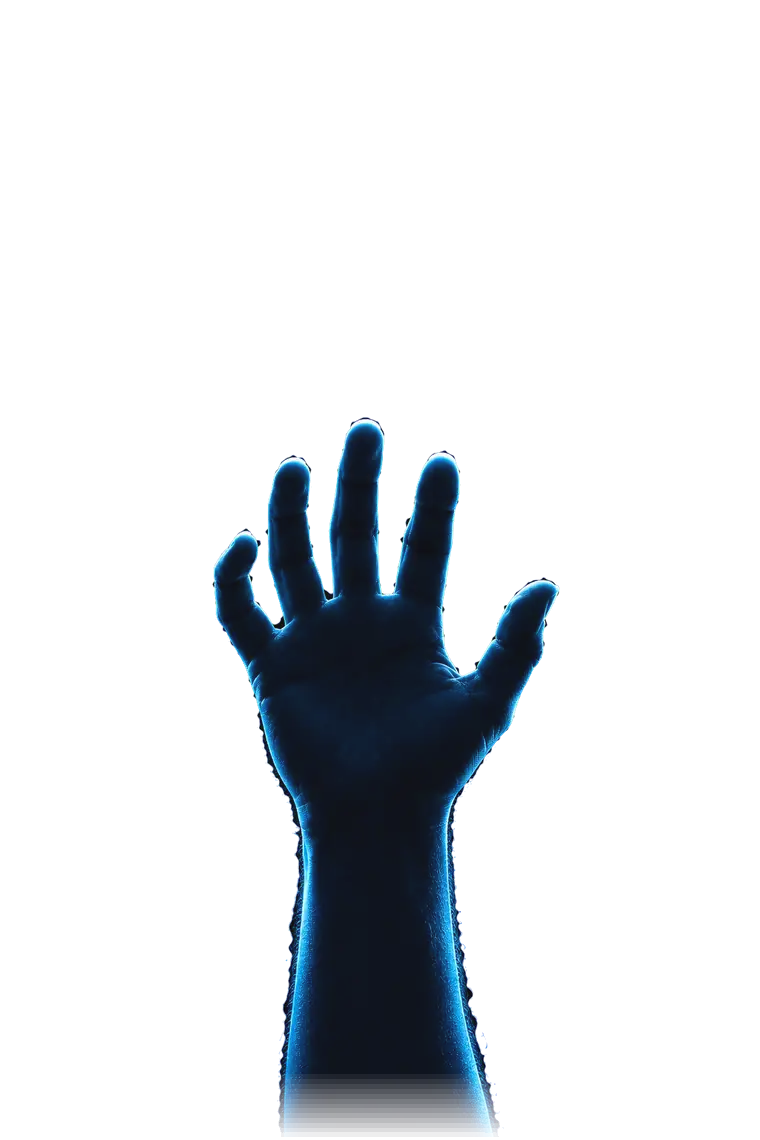
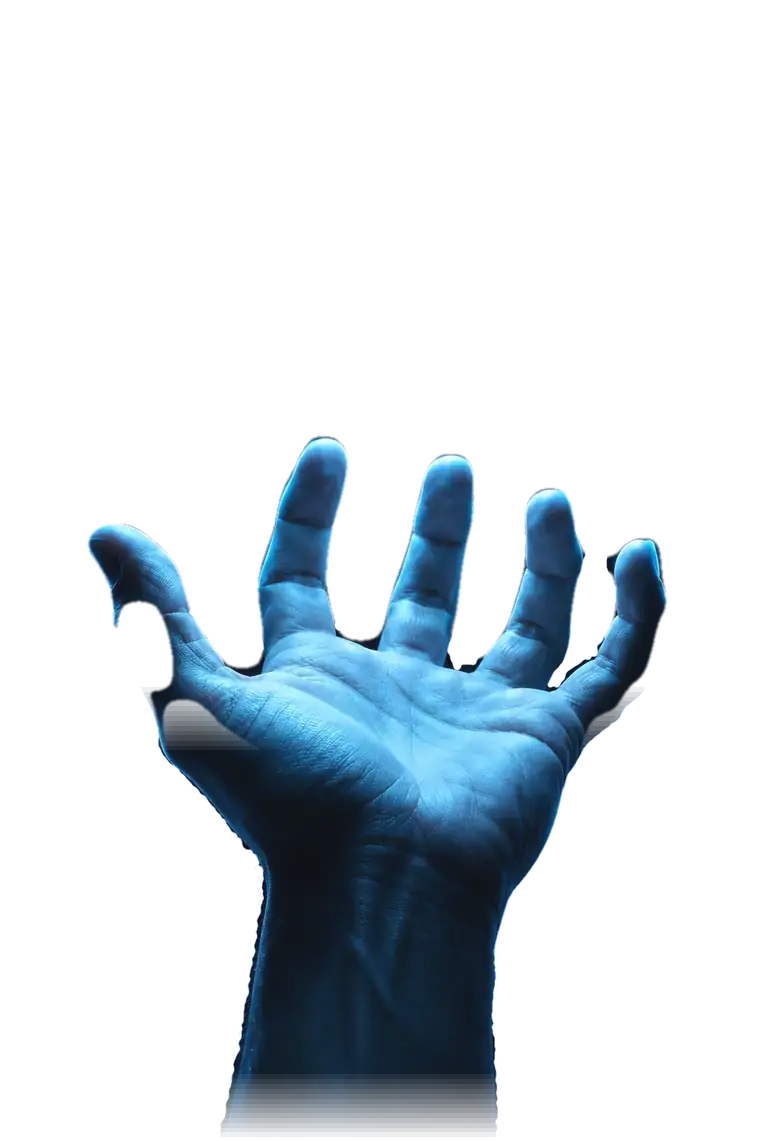
Sign-in hero: measured match to the user's mock at 1440x810
- Floor horizon pinned to 82vh; hand (new cupped, palm-up render, de-fringed) rises out of it
- Planet centred at the page middle: dark navy body lit from above, full corona rim, light rays, ambient blue
- Deep-blue aurora for sign-in (no white fringe), quieter cloud edges
- Wider sign-in layout, 60px title, card tabs (Sign in / Create account), tuned spacing

Changed region(s): [[0.1211, 0.3684, 0.8776, 1.0]]

diff --git a/public/css/app.css b/public/css/app.css
@@ -56,13 +56,15 @@ body.booting .boot-loader .boot-mk{width:132px;height:auto;animation:mkPulse 2.4
 body.gate nav .links,body.gate nav .nav-r,body.gate .helper-btn,body.gate .tabbar{display:none}
 
 /* auth page */
-/* desktop: title │ the offering │ form — the hand has its own column so nothing overlaps at any height */
-.auth{position:relative;display:grid;grid-template-columns:minmax(0,1fr) 220px minmax(0,370px);gap:32px;align-items:center;min-height:700px;padding:24px 0}
-/* signed out: a taller scene drops the floor horizon to ~730px so the hand rises out of it */
-body.gate .scene{height:1040px}
-.auth-copy{grid-area:1/1;position:relative;z-index:1;text-shadow:0 2px 24px rgba(2,12,19,.9)}
-.auth-card{grid-area:1/3;position:relative;z-index:1}
-.auth-copy h1{font-weight:300;font-size:clamp(36px,3.6vw,52px);line-height:1.04;letter-spacing:-.02em;margin:14px 0 22px}
+/* signed-out hero, measured against the user's mock at 1440x810:
+   the floor horizon sits at 82vh, the hand rises out of it at the page centre, title left, form right */
+body.gate .wrap{max-width:1330px}
+body.gate .scene{height:117.1vh} /* scene scale = height/800, so its horizon (y 560/800) lands at 82vh */
+#p-auth.page{padding-top:0}
+.auth{position:relative;display:grid;grid-template-columns:minmax(0,500px) minmax(0,1fr) 346px;gap:32px;align-items:end;height:calc(82vh - 72px);min-height:500px;padding:0}
+.auth-copy{grid-area:1/1;position:relative;z-index:1;margin-bottom:34px;text-shadow:0 2px 24px rgba(2,12,19,.9)}
+.auth-card{grid-area:1/3;position:relative;z-index:1;margin:0 14px 36px -14px}
+.auth-copy h1{font-weight:300;font-size:clamp(38px,4.17vw,60px);line-height:.93;letter-spacing:-.02em;margin:14px 0 22px}
 .auth-points{list-style:none;margin-top:28px;display:grid;gap:12px;font-size:15px;color:#c3dbe6}
 .auth-points li{display:flex;align-items:center;gap:12px}
 .auth-points li>span{display:grid;place-items:center;width:30px;height:30px;border-radius:9px;color:#98d5ee;background:rgba(79,179,218,.12);border:1px solid rgba(79,179,218,.25)}
@@ -89,8 +91,8 @@ body.gate .scene{height:1040px}
   -webkit-mask-image:linear-gradient(180deg,transparent 2%,#000 30%,#000 84%,transparent 99%);mask-image:linear-gradient(180deg,transparent 2%,#000 30%,#000 84%,transparent 99%);
   animation:ofHand 11s cubic-bezier(.45,0,.55,1) infinite}
 /* pool of light the hand rises from */
-.of-pool{left:-55%;right:-55%;bottom:4%;height:18%;z-index:1;
-  background:radial-gradient(50% 30% at 50% 50%,rgba(225,242,250,.55),rgba(79,179,218,.32) 30%,rgba(23,134,180,.12) 60%,transparent 75%);
+.of-pool{left:-80%;right:-80%;bottom:4%;height:18%;z-index:1;
+  background:radial-gradient(50% 32% at 50% 50%,rgba(225,242,250,.8),rgba(79,179,218,.45) 22%,rgba(23,134,180,.16) 55%,transparent 75%);
   will-change:opacity;animation:ofPulse 7s cubic-bezier(.45,0,.55,1) infinite}
 .of-pool::after{content:"";position:absolute;left:18%;right:18%;top:50%;height:1.5px;background:linear-gradient(90deg,transparent,rgba(225,242,250,.9),transparent)}
 /* soft column of light between the orb and the palm */
@@ -99,7 +101,7 @@ body.gate .scene{height:1040px}
   will-change:opacity;animation:ofPulse 7s cubic-bezier(.45,0,.55,1) infinite -3.5s}
 /* the shaft of light rising above the orb */
 .of-shaft{left:50%;top:calc(var(--oy) - 46%);width:22%;height:46%;z-index:3;translate:-50% 0;
-  background:linear-gradient(0deg,rgba(152,213,238,.5),rgba(79,179,218,.12) 45%,transparent);border-radius:50%;
+  background:linear-gradient(0deg,rgba(225,242,250,.8),rgba(79,179,218,.25) 40%,transparent);border-radius:50%;
   -webkit-mask-image:radial-gradient(50% 100% at 50% 100%,#000 30%,transparent);mask-image:radial-gradient(50% 100% at 50% 100%,#000 30%,transparent);
   will-change:opacity;animation:ofPulse 6s cubic-bezier(.45,0,.55,1) infinite -1s}
 .of-orb{left:50%;top:var(--oy);width:calc(var(--w)*var(--orb));aspect-ratio:1;z-index:4;padding:0;border-radius:50%;will-change:transform;
@@ -143,36 +145,57 @@ button.of-orb:focus-visible{outline:1px solid rgba(152,213,238,.7);outline-offse
 @keyframes ofGlint{0%,100%{opacity:.35;transform:scale(.8)}50%{opacity:1;transform:scale(1.3)}}
 
 /* sign-in hero, after the reference: title │ the offering │ form */
-.badge-pill{display:inline-flex;align-items:center;gap:10px;padding:7px 14px 7px 12px;border-radius:30px;font-size:11px;letter-spacing:.24em;text-transform:uppercase;color:#cfe6f1;
+.badge-pill{display:inline-flex;align-items:center;gap:9px;padding:6px 13px 6px 11px;border-radius:30px;font-size:10.5px;letter-spacing:.2em;text-transform:uppercase;color:#cfe6f1;
   background:rgba(4,32,46,.55);border:1px solid rgba(79,179,218,.35);box-shadow:inset 0 0 12px rgba(79,179,218,.08)}
 .badge-pill i{width:6px;height:6px;border-radius:50%;background:#4fb3da;box-shadow:0 0 10px #4fb3da;animation:ofGlint 2.8s ease-in-out infinite}
-.auth-copy .lede{font-size:19px;color:#a9c6d6;margin-top:-4px}
-.auth-cta{display:flex;gap:16px;margin-top:30px}
-.auth-cta .btn{height:52px;padding:0 28px;font-size:15px;background:linear-gradient(180deg,#4fb3da,#1786b4);border-color:transparent;box-shadow:0 10px 34px -8px rgba(79,179,218,.7),inset 0 1px 0 rgba(255,255,255,.35)}
+.auth-copy .lede{font-size:18px;color:#aebdcc;margin-top:-2px}
+.auth-cta{display:flex;gap:16px;margin-top:38px}
+.auth-cta .btn{height:47px;padding:0 26px;font-size:14.5px;background:linear-gradient(180deg,#4fb3da,#1786b4);border-color:transparent;box-shadow:0 10px 34px -8px rgba(79,179,218,.7),inset 0 1px 0 rgba(255,255,255,.35)}
 .auth-cta .btn:hover{transform:translateY(-1px);box-shadow:0 14px 40px -8px rgba(79,179,218,.85),inset 0 1px 0 rgba(255,255,255,.35)}
-.auth-stats{display:flex;margin-top:40px}
+.auth-stats{display:flex;margin-top:57px}
 .auth-stats>div{white-space:nowrap;display:grid;grid-template-columns:auto auto;column-gap:10px;align-items:center;padding:0 26px;border-left:1px solid rgba(79,179,218,.2)}
 .auth-stats>div:first-child{padding-left:0;border-left:0}
 .auth-stats span{color:#98d5ee;grid-row:span 2}
-.auth-stats b{font-weight:400;font-size:20px;line-height:1.1}
+.auth-stats b{font-weight:400;font-size:19px;line-height:1.1}
 .auth-stats small{font-size:12px;color:var(--muted);grid-column:2}
-.auth-card{padding:34px 32px 28px;background:linear-gradient(180deg,rgba(4,30,44,.78),rgba(2,16,25,.86));border-color:rgba(79,179,218,.3);box-shadow:0 30px 80px -30px rgba(0,0,0,.8),inset 0 1px 0 rgba(152,213,238,.12)}
+.auth-card{padding:30px 28px 24px;background:linear-gradient(180deg,rgba(4,30,44,.78),rgba(2,16,25,.86));border-color:rgba(79,179,218,.3);box-shadow:0 30px 80px -30px rgba(0,0,0,.8),inset 0 1px 0 rgba(152,213,238,.12)}
 .ifld{position:relative;display:block}
 .ifld>.ic{position:absolute;left:16px;top:50%;translate:0 -50%;color:#98d5ee;opacity:.85;pointer-events:none}
-.auth-card .ifld input{height:52px;padding:0 46px 0 48px;border-radius:14px;font-size:14.5px}
+.auth-card .ifld input{height:42px;padding:0 44px 0 46px;border-radius:12px;font-size:13.5px}
+.auth-card h2{font-size:26px}
+.auth-card .auth-go{height:40px;border-radius:20px}
+.auth-tabs{display:grid;grid-template-columns:1fr 1fr;margin:22px -28px 4px;border-bottom:1px solid rgba(79,179,218,.16)}
+.auth-tabs button{padding:0 0 12px;font-size:13.5px;color:var(--muted);position:relative;transition:color .3s}
+.auth-tabs button.on{color:var(--text)}
+.auth-tabs button.on::after{content:"";position:absolute;left:22%;right:22%;bottom:-1px;height:2px;border-radius:2px;background:#4fb3da;box-shadow:0 0 10px #4fb3da}
 .ifld .eye{position:absolute;right:12px;top:50%;translate:0 -50%;width:30px;height:30px;display:grid;place-items:center;color:var(--muted);border-radius:8px}
 .ifld .eye:hover,.ifld .eye.on{color:#e1f2fa}
 .sr{position:absolute;width:1px;height:1px;overflow:hidden;clip:rect(0 0 0 0);white-space:nowrap}
-.of-auth{grid-area:1/2;align-self:end;justify-self:center;--w:380px;--oy:27%;--orb:.56;z-index:0;margin-bottom:-2px}
-.of-auth .of-hand{-webkit-mask-image:linear-gradient(180deg,transparent 2%,#000 30%,#000 80%,transparent 88%);mask-image:linear-gradient(180deg,transparent 2%,#000 30%,#000 80%,transparent 88%)}
+.of-auth{position:absolute;left:50%;bottom:calc(var(--w) * -.195);margin-left:calc(var(--w) / -2);--w:380px;--oy:25.6%;--orb:.58;z-index:0}
+.of-auth .of-hand{inset:27.5% auto auto 19%;width:62%;-webkit-mask-image:linear-gradient(180deg,#000 88%,transparent 96%);mask-image:linear-gradient(180deg,#000 88%,transparent 96%)}
+.of-auth .of-ring{width:178%;height:46%;border-width:1.4px;border-color:rgba(152,213,238,.7);transform:translate(-50%,-50%) rotate(-22deg)}
+/* the luminous floor the hand rises from (sits exactly on the scene horizon) */
+.of-auth::after{content:"";position:absolute;left:50%;bottom:calc(13% - 70px);width:1500px;height:140px;margin-left:-750px;z-index:1;pointer-events:none;
+  background:radial-gradient(28% 14% at 50% 50%,rgba(225,242,250,.85),rgba(79,179,218,.4) 40%,transparent 100%),radial-gradient(50% 50% at 50% 50%,rgba(23,134,180,.32),rgba(15,94,131,.12) 50%,transparent 75%)}
+.of-auth .of-shaft{top:calc(var(--oy) - 46%);height:34%;width:30%;z-index:5;-webkit-mask-image:none;mask-image:none;border-radius:0;
+  background:radial-gradient(50% 100% at 50% 100%,rgba(225,242,250,.75),rgba(79,179,218,.35) 35%,rgba(23,134,180,.1) 65%,transparent 80%)}
+.of-auth .of-hand{filter:brightness(.56) contrast(1.2) saturate(1.15)}
+.of-auth .of-orb i{display:none}
+/* the planet floods the centre with blue light, like the mock */
+.of-auth::before{content:"";position:absolute;left:50%;top:var(--oy);width:1000px;height:820px;margin:-380px 0 0 -500px;z-index:0;pointer-events:none;
+  background:radial-gradient(closest-side,rgba(23,134,180,.34),rgba(15,94,131,.16) 45%,transparent)}
+/* thin rays rising from the planet */
+.of-auth .of-shaft{background:repeating-linear-gradient(90deg,transparent 0 7px,rgba(152,213,238,.35) 7px 8px,transparent 8px 13px),linear-gradient(0deg,rgba(152,213,238,.85),rgba(79,179,218,.3) 45%,transparent);
+  -webkit-mask-image:radial-gradient(45% 100% at 50% 100%,#000 25%,transparent 100%);mask-image:radial-gradient(45% 100% at 50% 100%,#000 25%,transparent 100%)}
+.of-auth .of-orb::before{inset:-8%;background:radial-gradient(60% 60% at 50% 40%,rgba(79,179,218,calc(.75 + var(--charge)*.25)),rgba(23,134,180,.35) 45%,transparent 72%)}
 /* Home: the hand sits right of the search; below 1280px the stacked words return */
 .of-home{display:none;position:absolute;right:-6px;top:-40px;--w:330px;--oy:27%;--orb:.48}
 .of-home .of-tag{font-size:12.5px;text-shadow:0 1px 12px #020c13,0 0 4px #020c13}
 .of-home .of-hand{-webkit-mask-image:linear-gradient(180deg,transparent 2%,#000 30%,#000 80%,transparent 88%);mask-image:linear-gradient(180deg,transparent 2%,#000 30%,#000 80%,transparent 88%)}
 .of-home .of-ring{width:210%;border-color:rgba(152,213,238,.4)}
 @media (min-width:1280px){#p-home .hero .side{display:none}.of-home{display:block}}
-@media (max-width:1100px){.auth{grid-template-columns:minmax(0,1fr) minmax(0,400px)}.auth-card{grid-area:1/2}.of-auth{display:none}}
-@media (max-width:900px){.auth{grid-template-columns:1fr}.auth-copy,.auth-card,.of-auth{grid-area:auto}.of-auth{display:block;margin:-10px auto -110px;--w:300px;order:-1}.auth-stats>div{padding:0 14px}}
+@media (max-width:1100px){.auth{grid-template-columns:minmax(0,1fr) minmax(0,380px);height:auto;align-items:center;padding:24px 0 60px}.auth-card{grid-area:1/2;margin:0}.auth-copy{margin:0}.of-auth{display:none}}
+@media (max-width:900px){body.gate .scene{height:1040px}.auth{grid-template-columns:1fr}.auth-copy,.auth-card,.of-auth{grid-area:auto}.of-auth{display:block;position:relative;left:auto;bottom:auto;margin:-10px auto -110px;--w:300px;order:-1}.auth-stats>div{padding:0 14px}}
 @media (prefers-reduced-motion:reduce){.offering *{animation:none!important}}
 
 

diff --git a/public/js/globe.js b/public/js/globe.js
@@ -21,26 +21,26 @@ function drawGlobe(cv,t){
     g.restore()};
   const halo=g.createRadialGradient(c,c,R*.9,c,c,R*(calm?1.38:1.6)); // calm: stay inside the canvas so no square edgehalo.addColorStop(0,'rgba(79,179,218,.5)');halo.addColorStop(1,'rgba(79,179,218,0)');g.fillStyle=halo;g.fillRect(0,0,S,S);
   if(!calm)ring(true);
-  const body=g.createRadialGradient(c-R*.38,c-R*.42,R*.05,c,c,R);
-  if(calm){body.addColorStop(0,'#2f86ad');body.addColorStop(.3,'#0a3c55');body.addColorStop(.7,'#03141f');body.addColorStop(1,'#01080d')}
+  const body=calm?g.createRadialGradient(c,c-R*.95,R*.05,c,c-R*.2,R*1.25):g.createRadialGradient(c-R*.38,c-R*.42,R*.05,c,c,R);
+  if(calm){body.addColorStop(0,'#1786b4');body.addColorStop(.18,'#0f5e83');body.addColorStop(.42,'#072a3d');body.addColorStop(.75,'#03141f');body.addColorStop(1,'#01080d')}
   else{body.addColorStop(0,'#e1f2fa');body.addColorStop(.3,'#4fb3da');body.addColorStop(.68,'#0f5e83');body.addColorStop(1,'#04202e')}
   g.fillStyle=body;g.beginPath();g.arc(c,c,R,0,7);g.fill();
   g.save();g.beginPath();g.arc(c,c,R,0,7);g.clip();
   // graticule: meridians and parallels, front half only, fading toward the limb
   g.lineWidth=Math.max(.6,S*.008);
   const line=f=>{let prev=null;for(let k=0;k<=36;k++){const p=proj(...f(k/36));if(prev&&p[2]>0&&prev[2]>0){g.strokeStyle=`rgba(200,236,250,${(.12+.3*p[2])*(calm?.14:1)})`;g.beginPath();g.moveTo(prev[0],prev[1]);g.lineTo(p[0],p[1]);g.stroke()}prev=p}};
-  for(let m=0;m<6;m++){const lon=m*Math.PI/6;line(u=>{const lat=(u-.5)*Math.PI;return[Math.cos(lat)*Math.cos(lon),Math.sin(lat),Math.cos(lat)*Math.sin(lon)]})}
-  for(const lat of[-1,-.5,0,.5,1].map(v=>v*Math.PI/3.2))line(u=>{const lon=u*Math.PI*2;return[Math.cos(lat)*Math.cos(lon),Math.sin(lat),Math.cos(lat)*Math.sin(lon)]});
-  GLOBE.pts.forEach((p,i)=>{const q=proj(...p);if(q[2]<=0)return;const L=GLOBE.isLand[i];
-    g.fillStyle=L?`rgba(225,242,250,${(.35+.65*q[2])*(calm?.16:1)})`:`rgba(152,213,238,${(.08+.18*q[2])*(calm?.5:1)})`;g.beginPath();g.arc(q[0],q[1],(L?.9:.55)*dpr*(.55+.45*q[2])*(S/(44*dpr)),0,7);g.fill()});
+  if(!calm)for(let m=0;m<6;m++){const lon=m*Math.PI/6;line(u=>{const lat=(u-.5)*Math.PI;return[Math.cos(lat)*Math.cos(lon),Math.sin(lat),Math.cos(lat)*Math.sin(lon)]})}
+  if(!calm)for(const lat of[-1,-.5,0,.5,1].map(v=>v*Math.PI/3.2))line(u=>{const lon=u*Math.PI*2;return[Math.cos(lat)*Math.cos(lon),Math.sin(lat),Math.cos(lat)*Math.sin(lon)]});
+  GLOBE.pts.forEach((p,i)=>{const q=proj(...p);if(q[2]<=0)return;const L=GLOBE.isLand[i];if(calm&&!L)return;
+    g.fillStyle=L?`rgba(225,242,250,${(.35+.65*q[2])*(calm?.07:1)})`:`rgba(152,213,238,${(.08+.18*q[2])*(calm?.5:1)})`;g.beginPath();g.arc(q[0],q[1],(L?.9:.55)*dpr*(.55+.45*q[2])*(S/(44*dpr)),0,7);g.fill()});
   // night side and a soft specular highlight sell the curvature
-  const shade=g.createRadialGradient(c-R*.5,c-R*.55,R*.2,c,c,R*1.05);shade.addColorStop(0,'rgba(0,0,0,0)');shade.addColorStop(.7,'rgba(2,14,21,.15)');shade.addColorStop(1,'rgba(2,14,21,.7)');
+  const shade=calm?g.createRadialGradient(c,c-R*.6,R*.3,c,c,R*1.05):g.createRadialGradient(c-R*.5,c-R*.55,R*.2,c,c,R*1.05);shade.addColorStop(0,'rgba(0,0,0,0)');shade.addColorStop(.7,'rgba(2,14,21,.15)');shade.addColorStop(1,'rgba(2,14,21,.7)');
   g.fillStyle=shade;g.fillRect(0,0,S,S);
-  const spec=g.createRadialGradient(c-R*.42,c-R*.48,0,c-R*.42,c-R*.48,R*.5);spec.addColorStop(0,'rgba(255,255,255,.55)');spec.addColorStop(1,'rgba(255,255,255,0)');
+  const spec=calm?g.createRadialGradient(c,c-R*.9,0,c,c-R*.9,R*.7):g.createRadialGradient(c-R*.42,c-R*.48,0,c-R*.42,c-R*.48,R*.5);spec.addColorStop(0,'rgba(255,255,255,.55)');spec.addColorStop(1,'rgba(255,255,255,0)');
   g.fillStyle=spec;g.fillRect(0,0,S,S);g.restore();
   const rim=g.createLinearGradient(c-R,c+R,c+R,c-R);rim.addColorStop(0,'rgba(152,213,238,.85)');rim.addColorStop(.5,'rgba(79,179,218,.3)');rim.addColorStop(1,'rgba(225,242,250,.8)');
-  if(calm){g.save();g.shadowColor='#4fb3da';g.shadowBlur=S*.09;g.strokeStyle='rgba(152,213,238,.95)';g.lineWidth=Math.max(1,S*.012);g.beginPath();g.arc(c,c,R,Math.PI*.9,Math.PI*2.1);g.stroke();
-    g.globalAlpha=.35;g.beginPath();g.arc(c,c,R,Math.PI*2.1,Math.PI*2.9);g.stroke();g.restore();return}
+  if(calm){const rg=g.createLinearGradient(0,c-R,0,c+R);rg.addColorStop(0,'rgba(225,242,250,.95)');rg.addColorStop(.35,'rgba(79,179,218,.75)');rg.addColorStop(1,'rgba(23,134,180,.3)');
+    g.save();g.shadowColor='#4fb3da';g.shadowBlur=S*.16;g.strokeStyle=rg;g.lineWidth=Math.max(1,S*.012);g.beginPath();g.arc(c,c,R,0,7);g.stroke();g.stroke();g.restore();return}
   g.strokeStyle=rim;g.lineWidth=Math.max(1,S*.022);g.beginPath();g.arc(c,c,R,0,7);g.stroke();
   ring(false);
 }

diff --git a/public/js/app.js b/public/js/app.js
@@ -398,15 +398,16 @@ function strip(stops){const c=document.createElement('canvas');c.width=1;c.heigh
 const GREEN=strip([[0,'rgba(15,94,131,0)'],[.3,'rgba(23,134,180,.24)'],[.62,'rgba(79,179,218,.4)'],[.9,'rgba(152,213,238,.85)'],[.95,'rgba(225,242,250,.5)'],[1,'rgba(225,242,250,0)']]); // Sky palette
 const CYAN=strip([[0,'rgba(10,60,85,0)'],[.35,'rgba(15,94,131,.22)'],[.7,'rgba(79,179,218,.35)'],[.92,'rgba(225,242,250,.85)'],[1,'rgba(225,242,250,0)']]);
 const VIOLET=strip([[0,'rgba(10,60,85,0)'],[.4,'rgba(15,94,131,.3)'],[.85,'rgba(23,134,180,.6)'],[1,'rgba(23,134,180,0)']]);
+const DEEP=strip([[0,'rgba(10,60,85,0)'],[.3,'rgba(15,94,131,.28)'],[.65,'rgba(23,134,180,.5)'],[.9,'rgba(79,179,218,.78)'],[.96,'rgba(79,179,218,.45)'],[1,'rgba(79,179,218,0)']]); // sign-in: deep blue, no white fringe
 const SCN={
  home:{seed:11,trees:.6,figure:false,void:true,floorX:1290,r:[
   {u0:.5,u1:1.12,y0:0.6,y1:0.5,amp:.07,f:2.2,h:0.84,a:1,ph:0,sp:1,s:GREEN}, // brightest curtain sits behind the hand, not the headline
   {u0:.3,u1:1.1,y0:0.5,y1:0.41,amp:.05,f:1.6,h:0.61,a:.6,ph:2,sp:.7,s:VIOLET},
   {u0:.02,u1:.5,y0:0.5,y1:0.46,amp:.05,f:1.4,h:0.5,a:.32,ph:4,sp:.8,s:CYAN}]},
- auth:{seed:17,void:true,floorX:800,r:[
-  {u0:.1,u1:.75,y0:0.65,y1:0.46,amp:.07,f:2.2,h:0.84,a:1,ph:0,sp:1,s:GREEN},
-  {u0:.55,u1:1.1,y0:0.54,y1:0.41,amp:.05,f:1.6,h:0.61,a:.7,ph:2,sp:.7,s:VIOLET},
-  {u0:-.05,u1:.45,y0:0.68,y1:0.62,amp:.05,f:1.4,h:0.54,a:.55,ph:4,sp:.8,s:CYAN}]},
+ auth:{seed:17,void:true,floorX:800,rimLight:.25,r:[
+  {u0:-.06,u1:.44,y0:0.5,y1:0.36,amp:.06,f:2.2,h:0.78,a:1,ph:0,sp:1,s:DEEP},
+  {u0:.58,u1:1.08,y0:0.34,y1:0.5,amp:.06,f:2,h:0.78,a:1,ph:3,sp:.9,s:DEEP},
+  {u0:.28,u1:.74,y0:0.34,y1:0.34,amp:.04,f:1.4,h:0.62,a:.5,ph:4,sp:.8,s:VIOLET}]},
  builder:{seed:23,trees:.3,figure:false,planet:true,r:[
   {u0:.4,u1:1.1,y0:0.52,y1:0.68,amp:.08,f:2,h:0.81,a:.9,ph:1,sp:1,s:GREEN},
   {u0:.55,u1:1.05,y0:0.44,y1:0.53,amp:.05,f:1.5,h:0.68,a:.8,ph:3,sp:.6,s:VIOLET}]},
@@ -461,7 +462,7 @@ function voidSVG(c){
     <linearGradient id="${id}hl" x1="0" y1="0" x2="0" y2="1"><stop offset="0" stop-color="rgba(152,213,238,0)"/><stop offset=".5" stop-color="rgba(152,213,238,.16)"/><stop offset="1" stop-color="rgba(152,213,238,0)"/></linearGradient>
     <clipPath id="${id}below"><rect x="-200" y="${HZ}" width="2000" height="${800-HZ}"/></clipPath></defs>
   <rect x="-200" y="260" width="2000" height="${HZ-260}" fill="url(#${id}hz)"/>
-  ${L.map((l,k)=>`<path d="${l.fill}" fill="url(#${id}c${k})"/><path d="${l.rim}" fill="none" stroke="url(#${id}r${k})" stroke-opacity=".35" stroke-width="7"/><path d="${l.rim}" fill="none" stroke="url(#${id}r${k})" stroke-width="1.5"/>`).join('')}
+  ${L.map((l,k)=>`<path d="${l.fill}" fill="url(#${id}c${k})"/><path d="${l.rim}" fill="none" stroke="url(#${id}r${k})" stroke-opacity="${.35*(c.rimLight??1)}" stroke-width="7"/><path d="${l.rim}" fill="none" stroke="url(#${id}r${k})" stroke-opacity="${c.rimLight??1}" stroke-width="1.5"/>`).join('')}
   <rect x="-200" y="${HZ}" width="2000" height="${800-HZ}" fill="url(#${id}fl)"/>
   <ellipse cx="${fx}" cy="${HZ+10}" rx="420" ry="60" fill="url(#${id}gl)"/>
   <g clip-path="url(#${id}below)">${rings}</g>

diff --git a/public/js/cloud.js b/public/js/cloud.js
@@ -209,7 +209,8 @@ function renderAuth(){
   if(authMode==='check'){c.innerHTML=`<div class="auth-ic">${ic('mail',26)}</div><h2>Check your email</h2><p class="muted-sm">We sent a link to <b>${esc(authEmail)}</b>. Open it to continue. It can take a minute to arrive, so check spam too.</p><p class="auth-foot"><button type="button" class="link" data-amode="signin">Back to sign in</button></p>`;return}
   if(authMode==='error'){c.innerHTML=`<h2>We couldn’t load your account</h2><div class="auth-msg">${esc(authNotice)}</div><div class="auth-row"><button class="btn solid" id="authRetry">Try again</button><button class="btn ghost" id="authOut">Sign out</button></div>`;return}
   const f=AUTH[authMode];
-  c.innerHTML=`<h2>${f.h}</h2><p class="muted-sm">${f.p}</p>${authNotice?`<div class="auth-msg" role="alert">${esc(authNotice)}</div>`:''}
+  const tabs=authMode==='signin'||authMode==='signup'?`<div class="auth-tabs" role="tablist"><button type="button" role="tab" data-amode="signin" class="${authMode==='signin'?'on':''}" aria-selected="${authMode==='signin'}">Sign in</button><button type="button" role="tab" data-amode="signup" class="${authMode==='signup'?'on':''}" aria-selected="${authMode==='signup'}">Create account</button></div>`:'';
+  c.innerHTML=`<h2>${f.h}</h2><p class="muted-sm">${f.p}</p>${tabs}${authNotice?`<div class="auth-msg" role="alert">${esc(authNotice)}</div>`:''}
     <form id="authForm">${f.f.map(k=>FIELD[k]).join('')}${f.extra?`<div class="auth-links">${f.extra}</div>`:''}<button class="btn solid auth-go" type="submit">${f.btn} ${ic('arrow',15)}</button></form>
     ${f.foot?`<p class="auth-foot">${f.foot}</p>`:''}`;
   setTimeout(()=>c.querySelector('input')?.focus({preventScroll:true}),50); // keep the hero in view; the form is one scroll away on phones

diff --git a/CLAUDE.md b/CLAUDE.md
@@ -22,7 +22,13 @@ Lunorb is an AI-workspace product: a directory of 750 tools, guided "everyday" p
   - middle: the hand and orb
   - right: the form, with icon inputs and a working password eye
 - Deliberately not copied from the mock: invented stats ("10x", "50K+ users"), Watch Demo, OAuth buttons (not configured in Supabase) and Remember me.
-- `body.gate .scene` is 1040px tall, which drops the floor horizon to about 730px so the hand rises out of it.
+- Matched to the mock (`~/Downloads/Lunorb_ AI Workspace Beyond Limits.png`, 1672×941) at 1440×810. Key measured targets (px):
+  - floor at y 662 (82vh): `body.gate .scene{height:117.1vh}`, and `.auth` is `82vh - 72px` tall with the stage pool on its bottom edge
+  - planet centre (720, 312), diameter 158
+  - fingertips at y 455
+  - card x 997–1343
+  - title 240–410
+- Card tabs (Sign in / Create account) are real `data-amode` switches.
 
 **Void scene:**
 - `SCN.home` and `SCN.auth` have `void:true`. `voidSVG()` in app.js then draws cloud banks, a glossy floor, a horizon line and rings centred on `floorX`, instead of the mountains.
